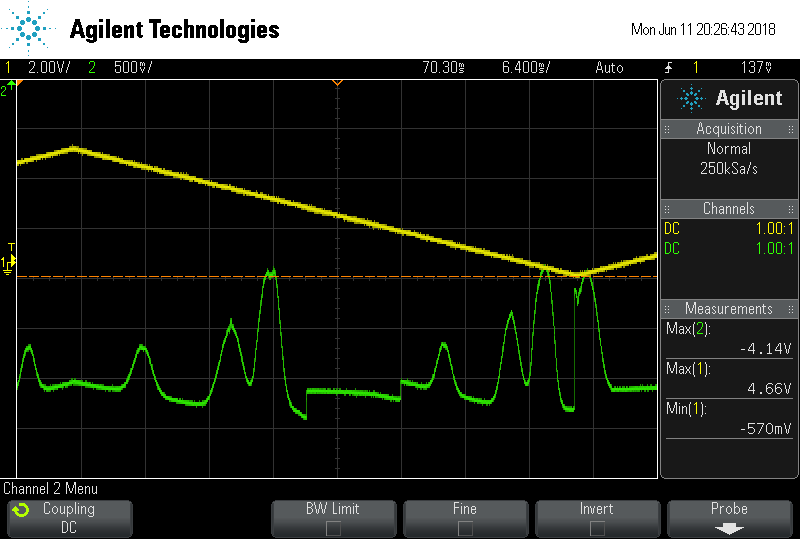
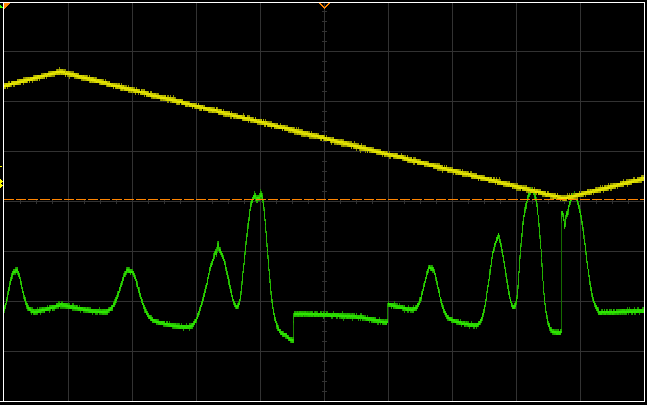
first thoughts complete write down

diff --git a/03-20180611-Diodenlaser/content/durchfuehrung.tex b/03-20180611-Diodenlaser/content/durchfuehrung.tex
@@ -79,23 +79,53 @@ To achieve a variation in frequence a pieco element is used.
 The piezo element is on the diffraction gratting to variated the length of the
 external resonator. 
 Varation of resonator length causes shifts in laser frequenz. 
+Piezo element is powerd by a ramp generator which causes linear shifts in
+resonator length in a defined time period.
+When Photocurrent is meassured by a sensor dependence between energy niveaus can
+be ploted.
 \begin{figure}[h]
 		\centering
 		\includegraphics[width=0.8\linewidth]{./content/pictures/scope_136.png}
 		\caption{}
-		\label{fig:}
+		\label{fig:piezotest}
 \end{figure}
-
+In figure \ref{fig:piezotest} the yellow line shows the voltage at the Piezo
+element which causes frequenz variation proportional to voltage.
+The green line is photo stream. 
+Hopes in the Photostream are horizontal modes caused by the Piezo element.
+They are of no further interest.
+To reduce mode hopping piezo modulation will be used. 
+The response is the graphic below (figure \ref{fig:rectangular}).
 \begin{figure}[h]
 		\centering
-		\includegraphics[width=0.8\linewidth]{./content/pictures/scope_139.png}
+		\includegraphics[width=0.8\linewidth]{./content/pictures/scope_138.png}
 		\caption{}
-		\label{fig:}
+		\label{fig:rectangular}
 \end{figure}
+The caracteristic Spektrum of a rubidium crystall is visible which the
+absorption lines. 
+In general the green line should be mirrored on the x-axis because resonance
+reduce the Energy on the photonstream. 
+For achieving a flat sprectrum which is not depended of the piezo voltage some
+modifikation are necessary.
 
-\begin{figure}[ht]
+\subsection{The perfect spectrum}%
+\label{sub:the_perfect_spectrum}
+
+For modulation of the pure laserbeam and this which pass the medium one, beam
+will be splited in two parts. 
+A semipermeable mirrow will be set in the beam path for the medium. 
+Light which reflected before the medium will be measured by a second Photomultiplier.
+Now beam modulation with a part which not passes and a part which passes the
+medium can be done. 
+The absorption spectrum without piezo movement effect is shown in figure
+\ref{fig:modulation}.
+\begin{figure}[h]
 		\centering
 		\includegraphics[width=0.8\linewidth]{./content/pictures/scope_140.png}
 		\caption{}
-		\label{fig:name}
+		\label{fig:modulation}
 \end{figure}
+There are the different energielevels (85\sfrac{a}{b}, 87\sfrac{a}{b}) are
+shown.
+Know the laser is alignet and ready for further experiment.
